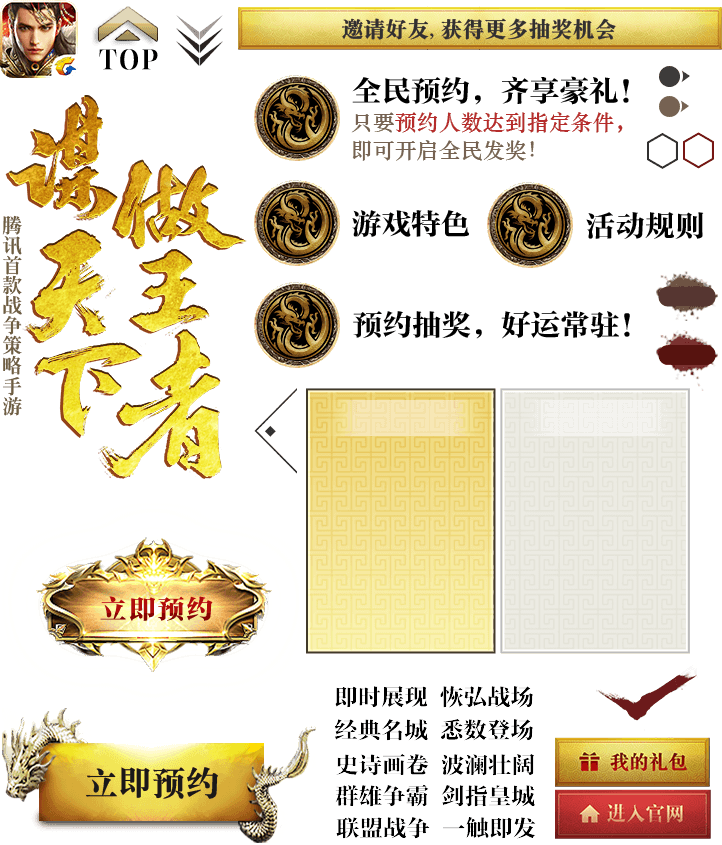
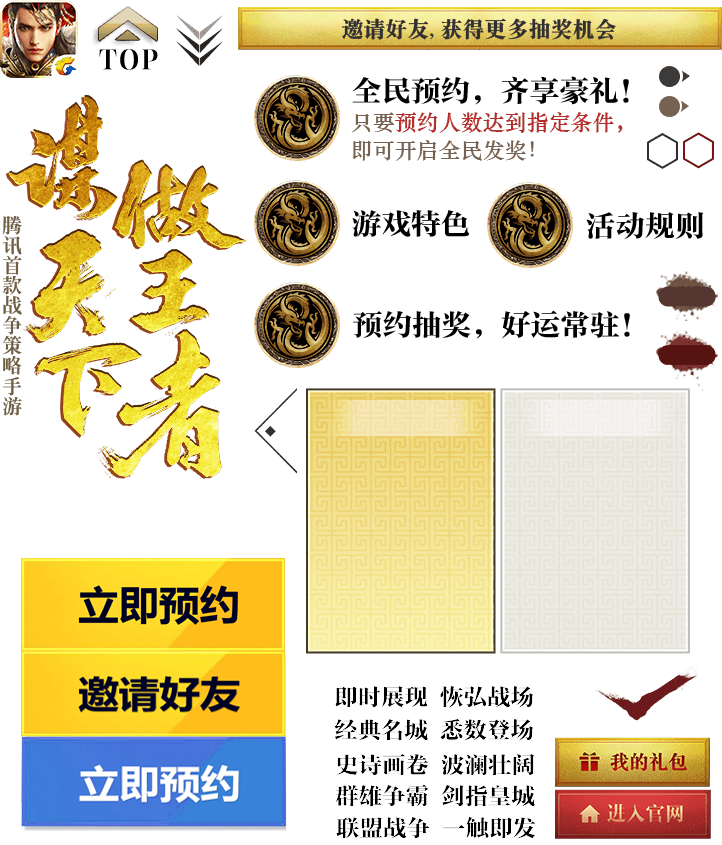
update btn

Changed region(s): [[0.0, 0.6154, 0.4266, 1.0]]

diff --git a/m/css/index.css b/m/css/index.css
@@ -30,7 +30,7 @@ body,div,h1,h2,h3,h4,h5,form,img,ul,ol,li,dl,dt,dd,p {margin:0; padding:0;}
 	0%{transform: rotate(0deg);}
 	100%{transform: rotate(360deg);}
 	}
-	.subscribe_btn {display: block; width: 3.01rem; height: 2.03rem; background-position: -0.02rem -5.03rem; overflow: hidden; text-indent: -9999rem; margin: 0 auto;}
+	.subscribe_btn {display: block; width: 3.01rem; height: 2.03rem; background-position: -0.02rem -4.98rem; overflow: hidden; text-indent: -9999rem; margin-top:120%;margin-left:26%;}
 	.subscribe_result {font-family: SimSun;font-size:0.28rem; color: #000000; padding-top:0.2rem;text-shadow: 0 0.02rem 0.02rem #333; font-weight: bold; padding:0.3rem 0 0 0.4rem; line-height: 0.36rem;}
 	.subscribe_result strong{padding:0 0.05rem; color:#c54c4b;}
 	.subscribe_result span{display: block; font-size:0.24rem;}
@@ -73,7 +73,7 @@ body,div,h1,h2,h3,h4,h5,form,img,ul,ol,li,dl,dt,dd,p {margin:0; padding:0;}
 	.act1_gift li.gift strong {color: #000;}
 	.act1_gift li.gift span {color: #000;}
 
-	.btn {display:block; width: 3.14rem; height: 1.35rem; background-position: -0.02rem -7.08rem; margin: 0 auto; overflow: hidden; text-indent: -9999rem;}
+	.btn {display:block; width: 3.01rem; height: 2.03rem; background-position: -0.01rem -7.37rem; margin-left:26%;margin-top:63%; overflow: hidden; text-indent: -9999rem;}
 	.gift_prev,.gift_next {display: block;position: absolute; width:0.32rem; height: 0.75rem; background:rgba(0,0,0,0.6); top:3.4rem; left:0;}
 	.gift_prev:before {display: block; position: absolute; width: 0.25rem; height: 0.25rem; border-top:0.04rem solid #fff; border-left:0.04rem solid #fff; transform:rotate(-45deg); content: ''; top:0.21rem; left: 0.09rem;}
 	.gift_next {left:auto;right: 0;}
@@ -82,7 +82,7 @@ body,div,h1,h2,h3,h4,h5,form,img,ul,ol,li,dl,dt,dd,p {margin:0; padding:0;}
 
 	.act2_note {line-height: 0.4rem; color: #766151; font-size:0.2rem; width: 5.1rem; margin: 0 auto; text-indent: -0.47rem; padding-left:0.47rem;}
 	.act2_note em {display: inline-block; width: 0.21rem; height: 0.22rem; padding-right:0.1rem; margin-right:0.15rem; background-position: -6.59rem -0.95rem; text-align: center; text-indent: 0; line-height: 0.22rem; color: #ffffff; font-style: normal;font-family: SimSun; font-weight: bold;}
-	.invite_btn {display: block;margin: 0.8rem auto 0.1rem; width: 4.84rem; height: 0.44rem; background-position: -2.38rem -0.06rem; overflow: hidden; text-indent: -9999rem;}
+	.invite_btn {display: block; width: 3.01rem; height: 0.86rem; margin-top:76%; margin-left:26%;  background-position: -0.02rem -6.499rem; overflow: hidden; text-indent: -9999rem;}
 	.lottery_info {text-align: center; color: #000; font-size: 0.24rem; line-height: 0.36rem;}
 	.lottery_info strong {color: #bb3337;}
 	.lottery {width: 6.17rem; height: 6.72rem; background:url("../img/lottery.jpg")/*tpa=http://game.gtimg.cn/images/slg/act/a20170613subscribe/m/lottery.jpg*/; background-size: cover; margin:0.3rem auto 0.25rem;}
@@ -178,7 +178,7 @@ body,div,h1,h2,h3,h4,h5,form,img,ul,ol,li,dl,dt,dd,p {margin:0; padding:0;}
 	.totop {display: block; width: 0.67rem; height: 0.64rem; overflow:hidden; text-indent: -9999rem; background-position: -0.92rem -0.06rem; margin:0.5rem auto 0;}
 
 	.mask {width:100%;height:100%;position:fixed;top:0;left:0;background:rgba(0,0,0,0.6); z-index: 999; display: none;}
-	.sprbg {background: url("../img/sprbg.png")/*tpa=http://game.gtimg.cn/images/slg/act/a20170613subscribe/m/sprbg.png*/ no-repeat; background-size:9.87rem 5.61rem;}
+	.sprbg {background: url("../img/sprbg.png") no-repeat; background-size:9.87rem 5.61rem;}
 	.share_tips {width:100%;height:100%;position:fixed;top:0;left:0;background:rgba(0,0,0,0.6); z-index: 1001; display: none;}
 	.share_tips p {width: 3.8rem; float:right; text-align: center;color: #fff;font: 0.24rem; padding:0.3rem;}
 	.share_tips p:before {display: block; content: ''; width: 2.21rem; height: 3.01rem; background: url("../img/arrows.png")/*tpa=http://game.gtimg.cn/images/slg/act/a20170613subscribe/m/arrows.png*/ no-repeat; background-size: cover;margin:0 0 0 1.6rem;}

diff --git a/m/js/index.js b/m/js/index.js
@@ -1,0 +1,13 @@
+function btn1($option="open"){
+	$login_slt = document.getElementById('login_slt').style; 
+	if($option=="open"){
+		//alert("1234");
+		if($login_slt.display == 'block')
+			$login_slt.display='none';
+		else
+			$login_slt.display='block';
+	}else if ($option=="close"){
+		
+		
+	}
+}
